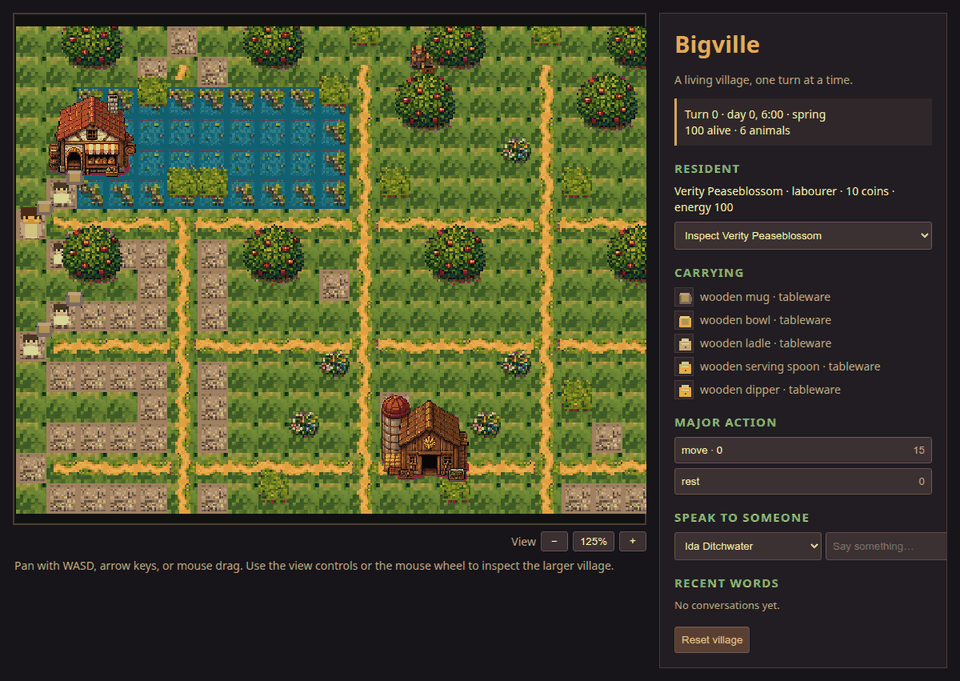
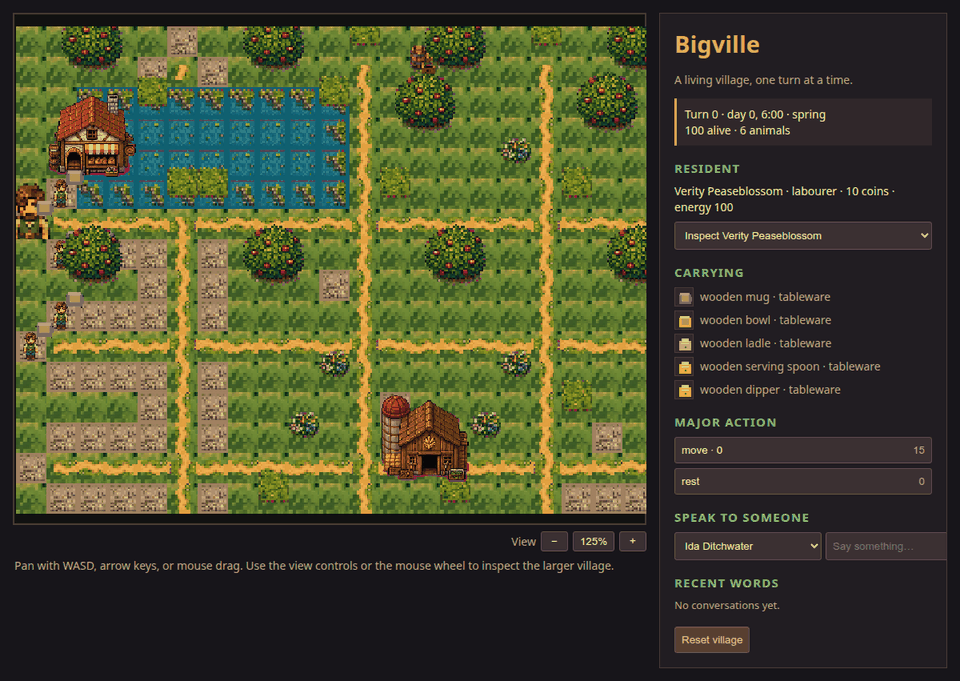
Add readable animated resident sprites

Changed region(s): [[0.0, 0.2467, 0.0938, 0.4009], [0.0, 0.4317, 0.0938, 0.5242], [0.0938, 0.1542, 0.125, 0.185]]

diff --git a/bigville/game/game.js b/bigville/game/game.js
@@ -212,7 +212,7 @@ class BigvilleScene extends Phaser.Scene {
     this.load.spritesheet('building_parts', 'assets/building_parts.png', {frameWidth: TILE, frameHeight: TILE});
     this.load.spritesheet('building_badges', 'assets/building_badges.png', {frameWidth: TILE, frameHeight: TILE});
     this.load.spritesheet('items', 'assets/items.png', {frameWidth: TILE, frameHeight: TILE});
-    this.load.spritesheet('characters', 'assets/character_variants.png', {frameWidth: 16, frameHeight: 16});
+    this.load.spritesheet('characters', 'assets/style_characters.png', {frameWidth: 32, frameHeight: 32});
     this.load.spritesheet('actions', 'assets/actions.png', {frameWidth: 16, frameHeight: 16});
   }
 
@@ -278,20 +278,29 @@ class BigvilleScene extends Phaser.Scene {
     ];
     for (const resident of visibleResidents) {
       const pos = resident.position || [0, 0];
-      const frame = this.residentFrame(resident);
-      const sprite = this.add.sprite(this.cellX(pos[0]), this.cellY(pos[1]), 'characters', frame)
-        .setScale(DISPLAY_SCALE).setDepth(this.depthAt(pos[0], pos[1], 30));
+      const previous = this.previousResidents?.[resident.id];
+      const previousPosition = previous?.position || pos;
+      const direction = this.residentDirection(previousPosition, pos);
+      const frame = this.residentFrame(resident, 0, direction);
+      const moving = Number(previousPosition[0]) !== Number(pos[0]) ||
+        Number(previousPosition[1]) !== Number(pos[1]);
+      const sprite = this.add.sprite(this.cellX(previousPosition[0]), this.cellY(previousPosition[1]), 'characters', frame)
+        .setScale(1).setDepth(this.depthAt(pos[0], pos[1], 30));
       sprite.setInteractive({useHandCursor: true});
       sprite.on('pointerdown', () => { selectedResidentId = resident.id; renderSidebar(); });
       if (resident.id === snapshot.player) sprite.setScale(DISPLAY_SCALE * 1.45).setTint(0xffe1a8);
       this.objects.push(sprite);
       this.drawResidentItems(resident, pos);
+      if (moving) this.animateWalking(sprite, resident, direction, pos);
       if (resident.id === snapshot.player && !this.hasCentered) {
         this.cameras.main.centerOn(this.cellX(pos[0]), this.cellY(pos[1]));
         this.hasCentered = true;
       }
     }
     this.cameras.main.setBounds(0, 0, width, height);
+    this.previousResidents = Object.fromEntries(allResidents.map((resident) => [
+      resident.id, {position: resident.position || [resident.x || 0, resident.y || 0]},
+    ]));
   }
 
   cellX(x) { return Number(x) * TILE * DISPLAY_SCALE + (TILE * DISPLAY_SCALE) / 2; }
@@ -309,6 +318,36 @@ class BigvilleScene extends Phaser.Scene {
     $('zoom-reset').textContent = `${Math.round(DEFAULT_ZOOM * 100)}%`;
     this.hasCentered = false;
     this.drawState(state);
+  }
+
+  residentDirection(from, to) {
+    const dx = Number(to[0]) - Number(from[0]);
+    const dy = Number(to[1]) - Number(from[1]);
+    if (Math.abs(dx) >= Math.abs(dy) && dx !== 0) return dx < 0 ? 2 : 3;
+    if (dy !== 0) return dy < 0 ? 1 : 0;
+    return 0;
+  }
+
+  animateWalking(sprite, resident, direction, position) {
+    const start = sprite.getData('walkTween') || 0;
+    const base = this.residentFrame(resident, 0, direction) -
+      (this.residentFrame(resident, 0, direction) % 3);
+    const frames = [base, base + 1, base, base + 2];
+    const targetX = this.cellX(position[0]);
+    const targetY = this.cellY(position[1]);
+    const distance = Math.max(1, Math.abs(targetX - sprite.x) + Math.abs(targetY - sprite.y));
+    const duration = Math.max(220, Math.min(620, 180 + distance * 2));
+    const tween = this.tweens.add({
+      targets: sprite, x: targetX, y: targetY, duration, ease: 'Linear',
+      onUpdate: (t) => {
+        const phase = Math.min(frames.length - 1,
+          Math.floor(t.progress * frames.length));
+        sprite.setFrame(frames[phase]);
+      },
+      onComplete: () => sprite.setFrame(base),
+    });
+    sprite.setData('walkTween', start + 1);
+    return tween;
   }
 
   terrainFrame(tile, x, y, grid) {
@@ -547,7 +586,7 @@ class BigvilleScene extends Phaser.Scene {
     const cellY = Math.min(height - 1, 1 + Math.floor(index / Math.max(1, width - 1)));
     const sprite = this.add.sprite(this.cellX(x + cellX), this.cellY(y + cellY) - 8 * DISPLAY_SCALE,
       'characters', this.residentFrame(resident))
-      .setScale(DISPLAY_SCALE * 1.15).setDepth(this.depthAt(x + cellX, y + cellY, 30));
+      .setScale(1.15).setDepth(this.depthAt(x + cellX, y + cellY, 30));
     sprite.setInteractive({useHandCursor: true});
     sprite.on('pointerdown', () => { selectedResidentId = resident.id; renderSidebar(); });
     if (resident.id === this.playerId) sprite.setTint(0xffe1a8);
@@ -555,9 +594,9 @@ class BigvilleScene extends Phaser.Scene {
     this.drawResidentItems(resident, [x + cellX, y + cellY]);
   }
 
-  residentFrame(resident) {
+  residentFrame(resident, frame = 0, direction = 0) {
     const role = String(resident.role || '').toLowerCase();
-    return (ROLE_VARIANTS[role] ?? 0) * 12;
+    return (ROLE_VARIANTS[role] ?? 0) * 12 + direction * 3 + frame;
   }
 
   drawResidentItems(resident, pos) {

diff --git a/tools/build_style_assets.py b/tools/build_style_assets.py
@@ -16,6 +16,7 @@ ROOT = Path(__file__).resolve().parents[1]
 ASSETS = ROOT / "bigville" / "game" / "assets"
 TILE = 16
 BUILDING = 96
+CHARACTER = 32
 
 MAGENTA = (255, 0, 255)
 
@@ -267,22 +268,67 @@ def build_cutaways(manifest: dict, cutaway_sheet: Image.Image) -> dict:
     return sprites
 
 
+CHARACTER_COLORS = [
+    (116, 145, 73), (205, 151, 55), (119, 101, 157), (104, 151, 75),
+    (105, 113, 124), (183, 91, 70), (85, 119, 168), (61, 91, 145),
+    (180, 139, 54), (47, 139, 131), (126, 149, 76), (120, 125, 139),
+    (145, 111, 77), (177, 91, 69), (62, 121, 145), (137, 99, 152),
+]
+
+
+def tint_clothes(image: Image.Image, color: tuple[int, int, int]) -> Image.Image:
+    """Recolour the vest area while leaving face, hair, hands and boots intact."""
+    image = image.copy().convert("RGBA")
+    pixels = image.load()
+    for y in range(10, 24):
+        for x in range(image.width):
+            r, g, b, a = pixels[x, y]
+            if not a or not (g >= r * 0.82 and g >= b * 1.03):
+                continue
+            luminance = max(45, (r + g + b) // 3)
+            scale = luminance / max(1, sum(color) // 3)
+            target = tuple(max(0, min(255, round(channel * scale))) for channel in color)
+            pixels[x, y] = tuple(round(original * 0.25 + replacement * 0.75)
+                                 for original, replacement in zip((r, g, b), target)) + (a,)
+    return image
+
+
+def build_characters(manifest: dict, character_sheet: Image.Image) -> None:
+    """Build readable 32px walk cycles for every existing role/age variant."""
+    cells = [grid_cell(character_sheet, 3, 4, i) for i in range(12)]
+    base_frames = [fit_sprite(cell, (CHARACTER, CHARACTER), pad=1, bottom=True)
+                   for cell in cells]
+    names = list(manifest["character_variants"]["variants"])
+    sheet = Image.new("RGBA", (CHARACTER * 3,
+                                CHARACTER * 4 * len(names)), (0, 0, 0, 0))
+    for variant_index, _name in enumerate(names):
+        for i, frame in enumerate(base_frames):
+            frame = tint_clothes(frame, CHARACTER_COLORS[variant_index % len(CHARACTER_COLORS)])
+            x = (i % 3) * CHARACTER
+            y = (variant_index * 4 + i // 3) * CHARACTER
+            sheet.alpha_composite(frame, (x, y))
+    sheet.save(ASSETS / "style_characters.png")
+
+
 def main() -> None:
     manifest = json.loads((ASSETS / "manifest.json").read_text())
     terrain = Image.open(ASSETS / "style_terrain_atlas_source.png")
     buildings = Image.open(ASSETS / "style_building_atlas_source.png")
     cutaways = Image.open(ASSETS / "style_cutaway_atlas_source.png")
+    characters = Image.open(ASSETS / "style_character_walk_atlas_source.png")
     old_tiles = Image.open(ASSETS / "tileset.png")
     reference = Image.open(ASSETS / "style_source_village.png").convert("RGB")
     path_variants = build_tiles(manifest, terrain, reference, old_tiles)
     prop_sprites = build_props(terrain)
     sprites = build_buildings(manifest, buildings)
     cutaway_sprites = build_cutaways(manifest, cutaways)
+    build_characters(manifest, characters)
     out_manifest = {
         "source": "style_source_village.png",
         "terrain_source": "style_terrain_atlas_source.png",
         "building_source": "style_building_atlas_source.png",
         "cutaway_source": "style_cutaway_atlas_source.png",
+        "character_source": "style_character_walk_atlas_source.png",
         "tiles": {"file": "style_tiles.png", "frame": TILE,
                   "tiles": manifest["tileset"]["tiles"]},
         "path_variants": path_variants,
@@ -293,6 +339,9 @@ def main() -> None:
                       "sprites": sprites},
         "cutaways": {"file": "style_cutaways.png", "frame": BUILDING,
                      "sprites": cutaway_sprites},
+        "characters": {"file": "style_characters.png", "frame": CHARACTER,
+                       "cols": 3, "rows_per_variant": 4,
+                       "variants": manifest["character_variants"]["variants"]},
     }
     (ASSETS / "style_manifest.json").write_text(json.dumps(out_manifest, indent=2) + "\n")
     print("wrote style_tiles.png style_props.png style_large_props.png style_buildings.png style_manifest.json")

diff --git a/tests/test_bigville_server.py b/tests/test_bigville_server.py
@@ -30,6 +30,7 @@ def test_game_assets_are_present():
                          "assets/style_tiles.png", "assets/style_props.png",
                          "assets/style_large_props.png", "assets/style_buildings.png",
                          "assets/style_cutaway_atlas_source.png", "assets/style_cutaways.png",
+                         "assets/style_character_walk_atlas_source.png", "assets/style_characters.png",
                          "assets/style_manifest.json"):
             assert (GAME_ROOT / filename).is_file(), filename
 
@@ -49,6 +50,7 @@ def test_asset_manifest_covers_entity_items_and_modular_buildings():
     assert manifest["style_reference"] == "stardew_like_art_direction.png"
     assert manifest["style_assets"]["source_reference"] == "style_source_village.png"
     assert manifest["style_assets"]["cutaway_source"] == "style_cutaway_atlas_source.png"
+    assert manifest["style_assets"]["character_source"] == "style_character_walk_atlas_source.png"
     style = json.loads((GAME_ROOT / "assets/style_manifest.json").read_text())
     assert style["tiles"]["file"] == "style_tiles.png"
     assert len(style["path_variants"]) == 16
@@ -61,6 +63,8 @@ def test_asset_manifest_covers_entity_items_and_modular_buildings():
     assert style["buildings"]["file"] == "style_buildings.png"
     assert style["cutaways"]["file"] == "style_cutaways.png"
     assert set(entities.BUILDINGS) <= set(style["cutaways"]["sprites"])
+    assert style["characters"]["file"] == "style_characters.png"
+    assert style["characters"]["frame"] == 32
     assert len(manifest["terrain"]["transition_masks"]["path"]) == 16
     assert len(manifest["terrain"]["transition_masks"]["water"]) == 16
     assert {"tree", "flower_clump", "bush", "reed", "bench"} <= set(manifest["terrain"]["props"])

diff --git a/bigville/game/assets/generate_assets.py b/bigville/game/assets/generate_assets.py
@@ -1023,6 +1023,7 @@ def main():
             "terrain_source": "style_terrain_atlas_source.png",
             "building_source": "style_building_atlas_source.png",
             "cutaway_source": "style_cutaway_atlas_source.png",
+            "character_source": "style_character_walk_atlas_source.png",
             "manifest": "style_manifest.json",
             "builder": "tools/build_style_assets.py",
             "runtime_note": "the original village scene is reference-only; clients assemble transparent props, facades, and opaque terrain frames",

diff --git a/README.md b/README.md
@@ -77,7 +77,9 @@ but it is not drawn as a backdrop. `tools/build_style_assets.py` turns the
 reference language into assembled terrain, transitions, props, and building
 facades. It also includes matching roof-off cutaway facades with furnished
 interiors, so scenarios can use different maps with the same cosy visual style
-without falling back to a separate interior art language.
+without falling back to a separate interior art language. Residents use a
+32px directional walk-cycle atlas with idle, step-A, and step-B frames, so
+movement is rendered as a short physical walk between simulation cells.
 
 ## Cognition backends
 

diff --git a/docs/GAME_ART_DESIGN.md b/docs/GAME_ART_DESIGN.md
@@ -87,4 +87,7 @@ door, and exterior trim while exposing the furnished room. This keeps the
 original visual language while allowing every scenario to provide a different
 map and building arrangement. `stardew_like_art_direction.png`,
 `pixel_art_art_direction.png`, and `terrain_art_direction.png` remain useful
-art-direction studies.
+art-direction studies. Resident sprites use the same rule: the generated
+`style_characters.png` atlas contains 32px full-body directional idle and walk
+frames, while role/age variants retain their existing manifest indices and
+clothing palette cues.
